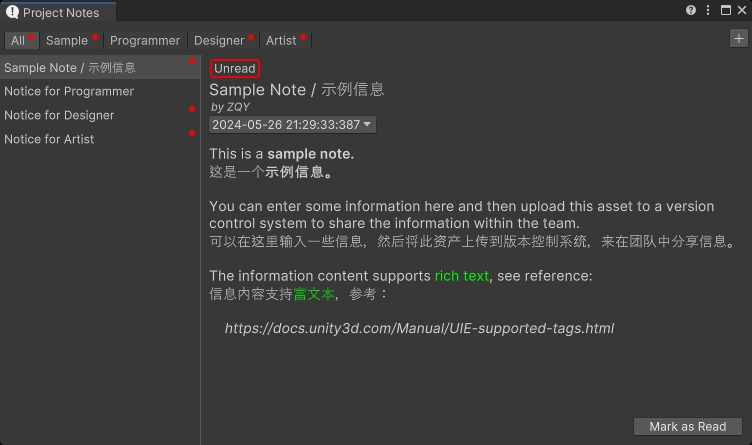
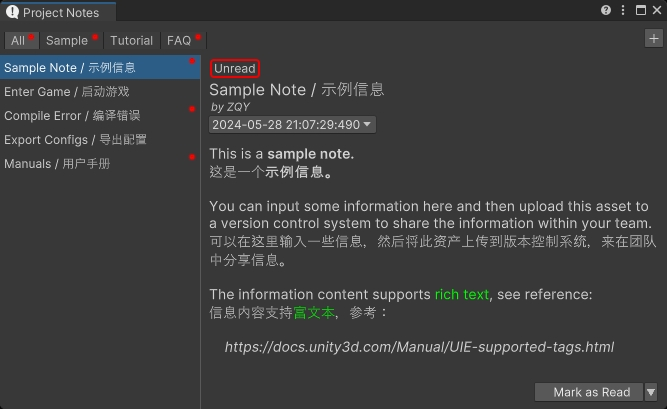
feat: Add note & Edit note

diff --git a/Editor/ProjectNotesWindow.GUI.cs b/Editor/ProjectNotesWindow.GUI.cs
@@ -263,7 +263,7 @@ namespace GBG.ProjectNotes.Editor
             #endregion
 
 
-            UpdateViews();
+            UpdateViews(null);
         }
 
         // Fix fixedPane null exception on Unity 2021
@@ -280,10 +280,10 @@ namespace GBG.ProjectNotes.Editor
             });
         }
 
-        private void UpdateViews(bool clearNoteSelection = false)
+        private void UpdateViews(NoteEntry selection)
         {
-            UpdateCategories();
-            UpdateFilteredNoteList(clearNoteSelection);
+            UpdateCategories(selection);
+            UpdateFilteredNoteList(selection);
             UpdateNodeContentView();
         }
 
@@ -326,11 +326,16 @@ namespace GBG.ProjectNotes.Editor
 
         #region Category
 
-        private void UpdateCategories()
+        private void UpdateCategories(NoteEntry selection)
         {
             if (_categoryGroup == null)
             {
                 return;
+            }
+
+            if (selection != null && LocalCache.SelectedCategory != ProjectNotesSettings.CategoryAll)
+            {
+                LocalCache.SelectedCategory = selection.category;
             }
 
             _categoryGroup.Clear();
@@ -365,14 +370,10 @@ namespace GBG.ProjectNotes.Editor
         {
             string category = toggle.text;
             LocalCache.SelectedCategory = category;
-            UpdateFilteredNoteList(true);
+            UpdateFilteredNoteList(null);
             if (_filteredNotes.Count > 0)
             {
                 _noteEntryListView.selectedIndex = 0;
-            }
-            else
-            {
-                _noteEntryListView.ClearSelection();
             }
         }
 
@@ -400,7 +401,7 @@ namespace GBG.ProjectNotes.Editor
             _contentView.SetNote(note);
         }
 
-        private void UpdateFilteredNoteList(bool clearNoteSelection)
+        private void UpdateFilteredNoteList(NoteEntry selection)
         {
             if (_noteEntryListView == null || !Settings)
             {
@@ -417,7 +418,19 @@ namespace GBG.ProjectNotes.Editor
                 }
             }
 
-            _noteEntryListView.ClearSelection();
+            if (selection != _noteEntryListView.selectedItem)
+            {
+                if (selection == null)
+                {
+                    _noteEntryListView.ClearSelection();
+                }
+                else
+                {
+                    int selectionIndex = _filteredNotes.IndexOf(selection);
+                    _noteEntryListView.selectedIndex = selectionIndex;
+                }
+            }
+
             _noteEntryListView.Rebuild();
         }
 

diff --git a/Editor/ProjectNotesWindow.cs b/Editor/ProjectNotesWindow.cs
@@ -71,7 +71,7 @@ namespace GBG.ProjectNotes.Editor
 
         private void OnFocus()
         {
-            UpdateViews();
+            UpdateViews(_noteEntryListView?.selectedItem as NoteEntry);
         }
 
         private void Update()
@@ -91,9 +91,38 @@ namespace GBG.ProjectNotes.Editor
         }
 
 
-        private void SaveNote(NoteEntry note)
+        private void SaveNote(NoteEntry noteToSave, bool isNewNote)
         {
-            UDebug.LogError($"TODO: OnSubmitNoteEntry: {note}");
+            if (!Settings)
+            {
+                return;
+            }
+
+            if (isNewNote)
+            {
+                Settings.Notes.Add(noteToSave);
+                Settings.ForceSave();
+                LocalCache.SelectedCategory = noteToSave.category;
+                UpdateViews(noteToSave);
+                UDebug.Log($"[Project Notes] New note added: {noteToSave.title} {Utility.FormatTimestamp(noteToSave.timestamp)}.");
+                return;
+            }
+
+            for (int i = 0; i < Settings.Notes.Count; i++)
+            {
+                NoteEntry note = Settings.Notes[i];
+                if (note.guid != noteToSave.guid)
+                {
+                    continue;
+                }
+
+                note.Update(noteToSave);
+                Settings.ForceSave();
+                UDebug.Log($"[Project Notes] Note updated: {noteToSave.title} {Utility.FormatTimestamp(noteToSave.timestamp)}.");
+                return;
+            }
+
+            UDebug.Log($"[Project Notes] Failed to add note: {noteToSave.title} {Utility.FormatTimestamp(noteToSave.timestamp)}.");
         }
 
         private void DeleteNote(NoteEntry noteToDelete, long timestampToDelete)
@@ -151,7 +180,7 @@ namespace GBG.ProjectNotes.Editor
                 else
                 {
                     UDebug.Log($"[Project Notes] Note deleted: {noteToDelete.title} {Utility.FormatTimestamp(timestampToDelete)}.");
-                    UpdateViews(false);
+                    UpdateViews((NoteEntry)_noteEntryListView.selectedItem);
                 }
             }
             else

diff --git a/Editor/ProjectNotesSettings.cs b/Editor/ProjectNotesSettings.cs
@@ -28,7 +28,7 @@ namespace GBG.ProjectNotes.Editor
                     _instance = AssetDatabase.LoadAssetAtPath<ProjectNotesSettings>(AssetDatabase.GUIDToAssetPath(guids[0]));
                     if (guids.Length > 1)
                     {
-                        UDebug.LogWarning($"[Project Notes] Multiple {nameof(ProjectNotesSettings)} instances found, using the first one. Please remove duplicates.", _instance);
+                        UDebug.LogError($"[Project Notes] Multiple {nameof(ProjectNotesSettings)} instances found, using the first one. Please remove duplicates.", _instance);
                     }
                 }
 
@@ -68,11 +68,15 @@ namespace GBG.ProjectNotes.Editor
                 author = "ZQY",
                 title = "Sample Note / 示例信息",
                 content = "This is a <b>sample note.</b>\r\n这是一个<b>示例信息。</b>\r\n\r\n" +
-                          "You can enter some information here and then upload this asset to a version control system to share the information within the team.\r\n" +
+                          "You can input some information here and then upload this asset to a version control system to share the information within your team.\r\n" +
                           "可以在这里输入一些信息，然后将此资产上传到版本控制系统，来在团队中分享信息。\r\n\r\n" +
                           "The information content supports <color=green>rich text</color>, see reference:\r\n" +
                           "信息内容支持<color=green>富文本</color>，参考：\r\n\r\n" +
+#if UNITY_2022_3_OR_NEWER
+                          "    <a href=\"https://docs.unity3d.com/Manual/UIE-supported-tags.html\">Supported rich text tags</a>",
+#else
                           "    <i>https://docs.unity3d.com/Manual/UIE-supported-tags.html</i>",
+#endif
                 contentHistory = {
                     new NoteHistory(638523554912390682, "This is a <color=blue>historical version</color> sample.\r\n这是一个<color=blue>历史版本</color>示例。")
                 },

diff --git a/Editor/NoteEditWindow.cs b/Editor/NoteEditWindow.cs
@@ -8,7 +8,7 @@ namespace GBG.ProjectNotes.Editor
 {
     public class NoteEditWindow : EditorWindow
     {
-        public static NoteEditWindow Open(NoteEntry note, Action<NoteEntry> onSave)
+        public static NoteEditWindow Open(NoteEntry note, Action<NoteEntry, bool> onSave)
         {
             _note = note;
             _onSave = onSave;
@@ -19,7 +19,8 @@ namespace GBG.ProjectNotes.Editor
 
 
         private static NoteEntry _note;
-        private static Action<NoteEntry> _onSave;
+        // param: note, isNewNote
+        private static Action<NoteEntry, bool> _onSave;
 
         public TextField _guidField;
         public LongField _timestampField;
@@ -152,7 +153,8 @@ namespace GBG.ProjectNotes.Editor
                 return;
             }
 
-            string message = _note == null
+            bool isNewNote = _note == null;
+            string message = isNewNote
                 ? "Once the settings is synced to the version control system, this note will be added to the project of all team members."
                 : "Once the settings is synced to the version control system, this note will be updated in the project of all team members.";
             if (!EditorUtility.DisplayDialog("Save note content?", message, "Save", "Cancel"))
@@ -160,7 +162,7 @@ namespace GBG.ProjectNotes.Editor
                 return;
             }
 
-            Action<NoteEntry> onSubmit = _onSave;
+            Action<NoteEntry, bool> onSubmit = _onSave;
             NoteEntry note = new NoteEntry
             {
                 guid = _guidField.value,
@@ -173,7 +175,7 @@ namespace GBG.ProjectNotes.Editor
             };
 
             Close();
-            onSubmit(note);
+            onSubmit(note, isNewNote);
         }
     }
 }

diff --git a/Editor/NoteEntry.cs b/Editor/NoteEntry.cs
@@ -1,6 +1,7 @@
 using System;
 using System.Collections.Generic;
 using UnityEngine;
+using UnityEngine.Assertions;
 
 namespace GBG.ProjectNotes.Editor
 {
@@ -28,15 +29,21 @@ namespace GBG.ProjectNotes.Editor
             timestamp = Utility.NewTimestamp();
         }
 
-        public void UpdateContent(string newContent, bool addOldContentToHistory = true)
+        public void Update(NoteEntry newNote, bool addOldContentToHistory = true)
         {
+            Assert.IsTrue(newNote.guid == guid);
+
             if (addOldContentToHistory && contentHistory.Count < MaxHistoryLength)
             {
                 contentHistory.Add(new NoteHistory(timestamp, content));
             }
 
-            timestamp = Utility.NewTimestamp();
-            content = newContent;
+            timestamp = newNote.timestamp;
+            category = newNote.category;
+            author = newNote.author;
+            isDraft = newNote.isDraft;
+            title = newNote.title;
+            content = newNote.content;
         }
 
         public string GetTrimmedCategory() => category?.Trim();

diff --git a/Editor/EditorToggleGroup.cs b/Editor/EditorToggleGroup.cs
@@ -34,6 +34,17 @@ namespace GBG.ProjectNotes.Editor
             base.Remove(child);
         }
 
+        public new void Clear()
+        {
+            foreach (Toggle toggle in _toggles)
+            {
+                toggle.UnregisterValueChangedCallback(OnToggleValueChanged);
+            }
+            _toggles.Clear();
+
+            base.Clear();
+        }
+
 
         private void OnToggleValueChanged(ChangeEvent<bool> evt)
         {
